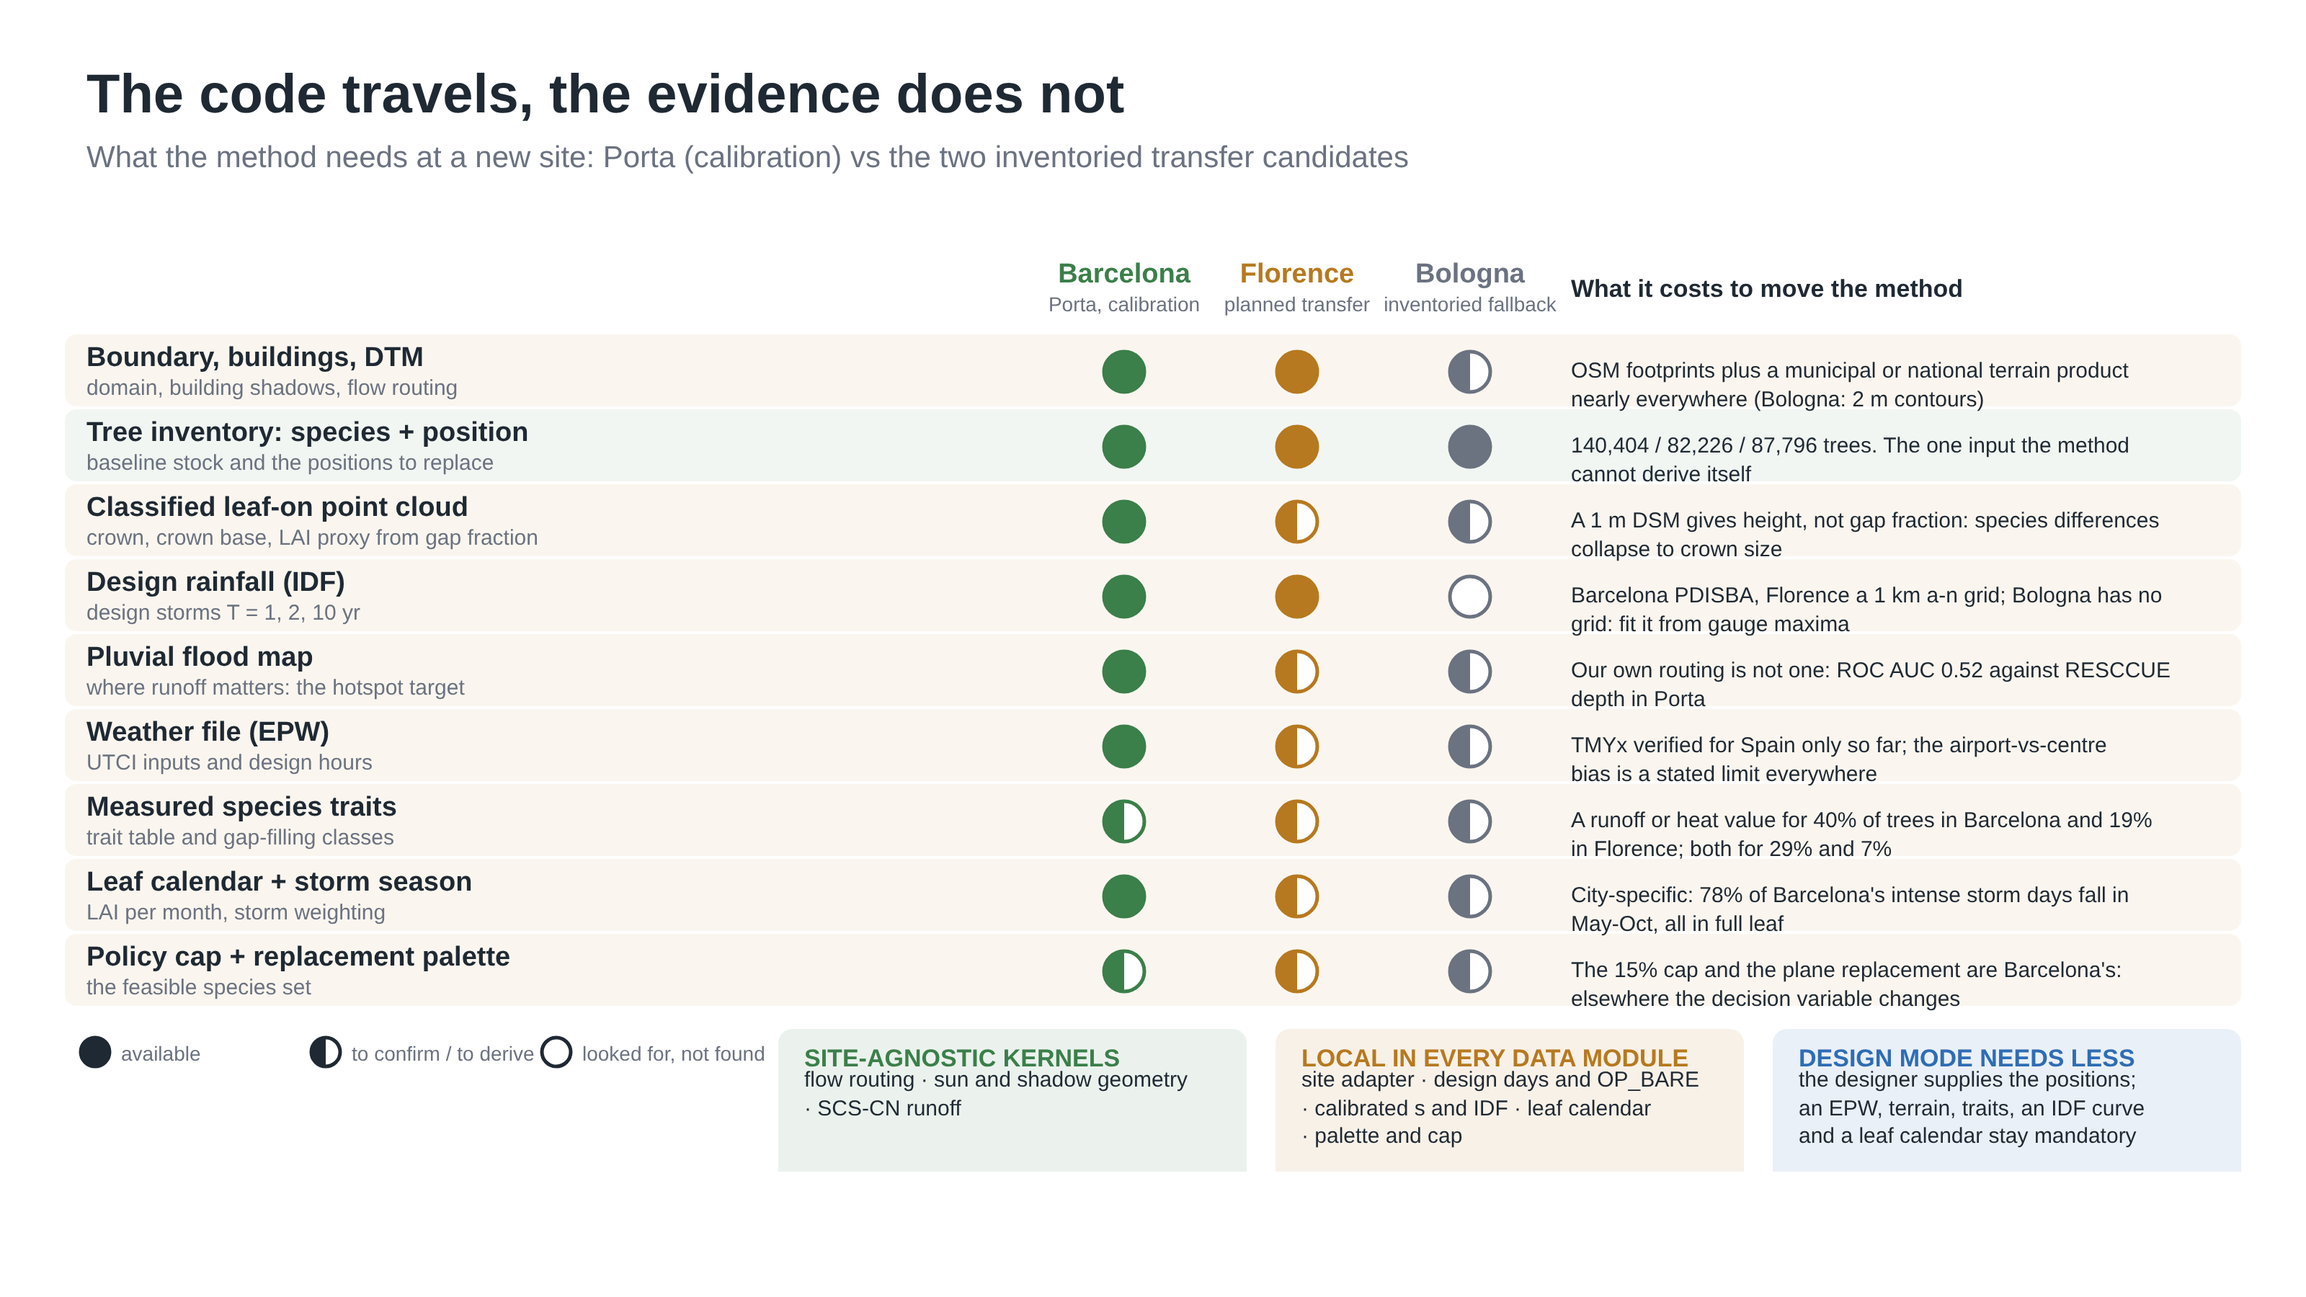
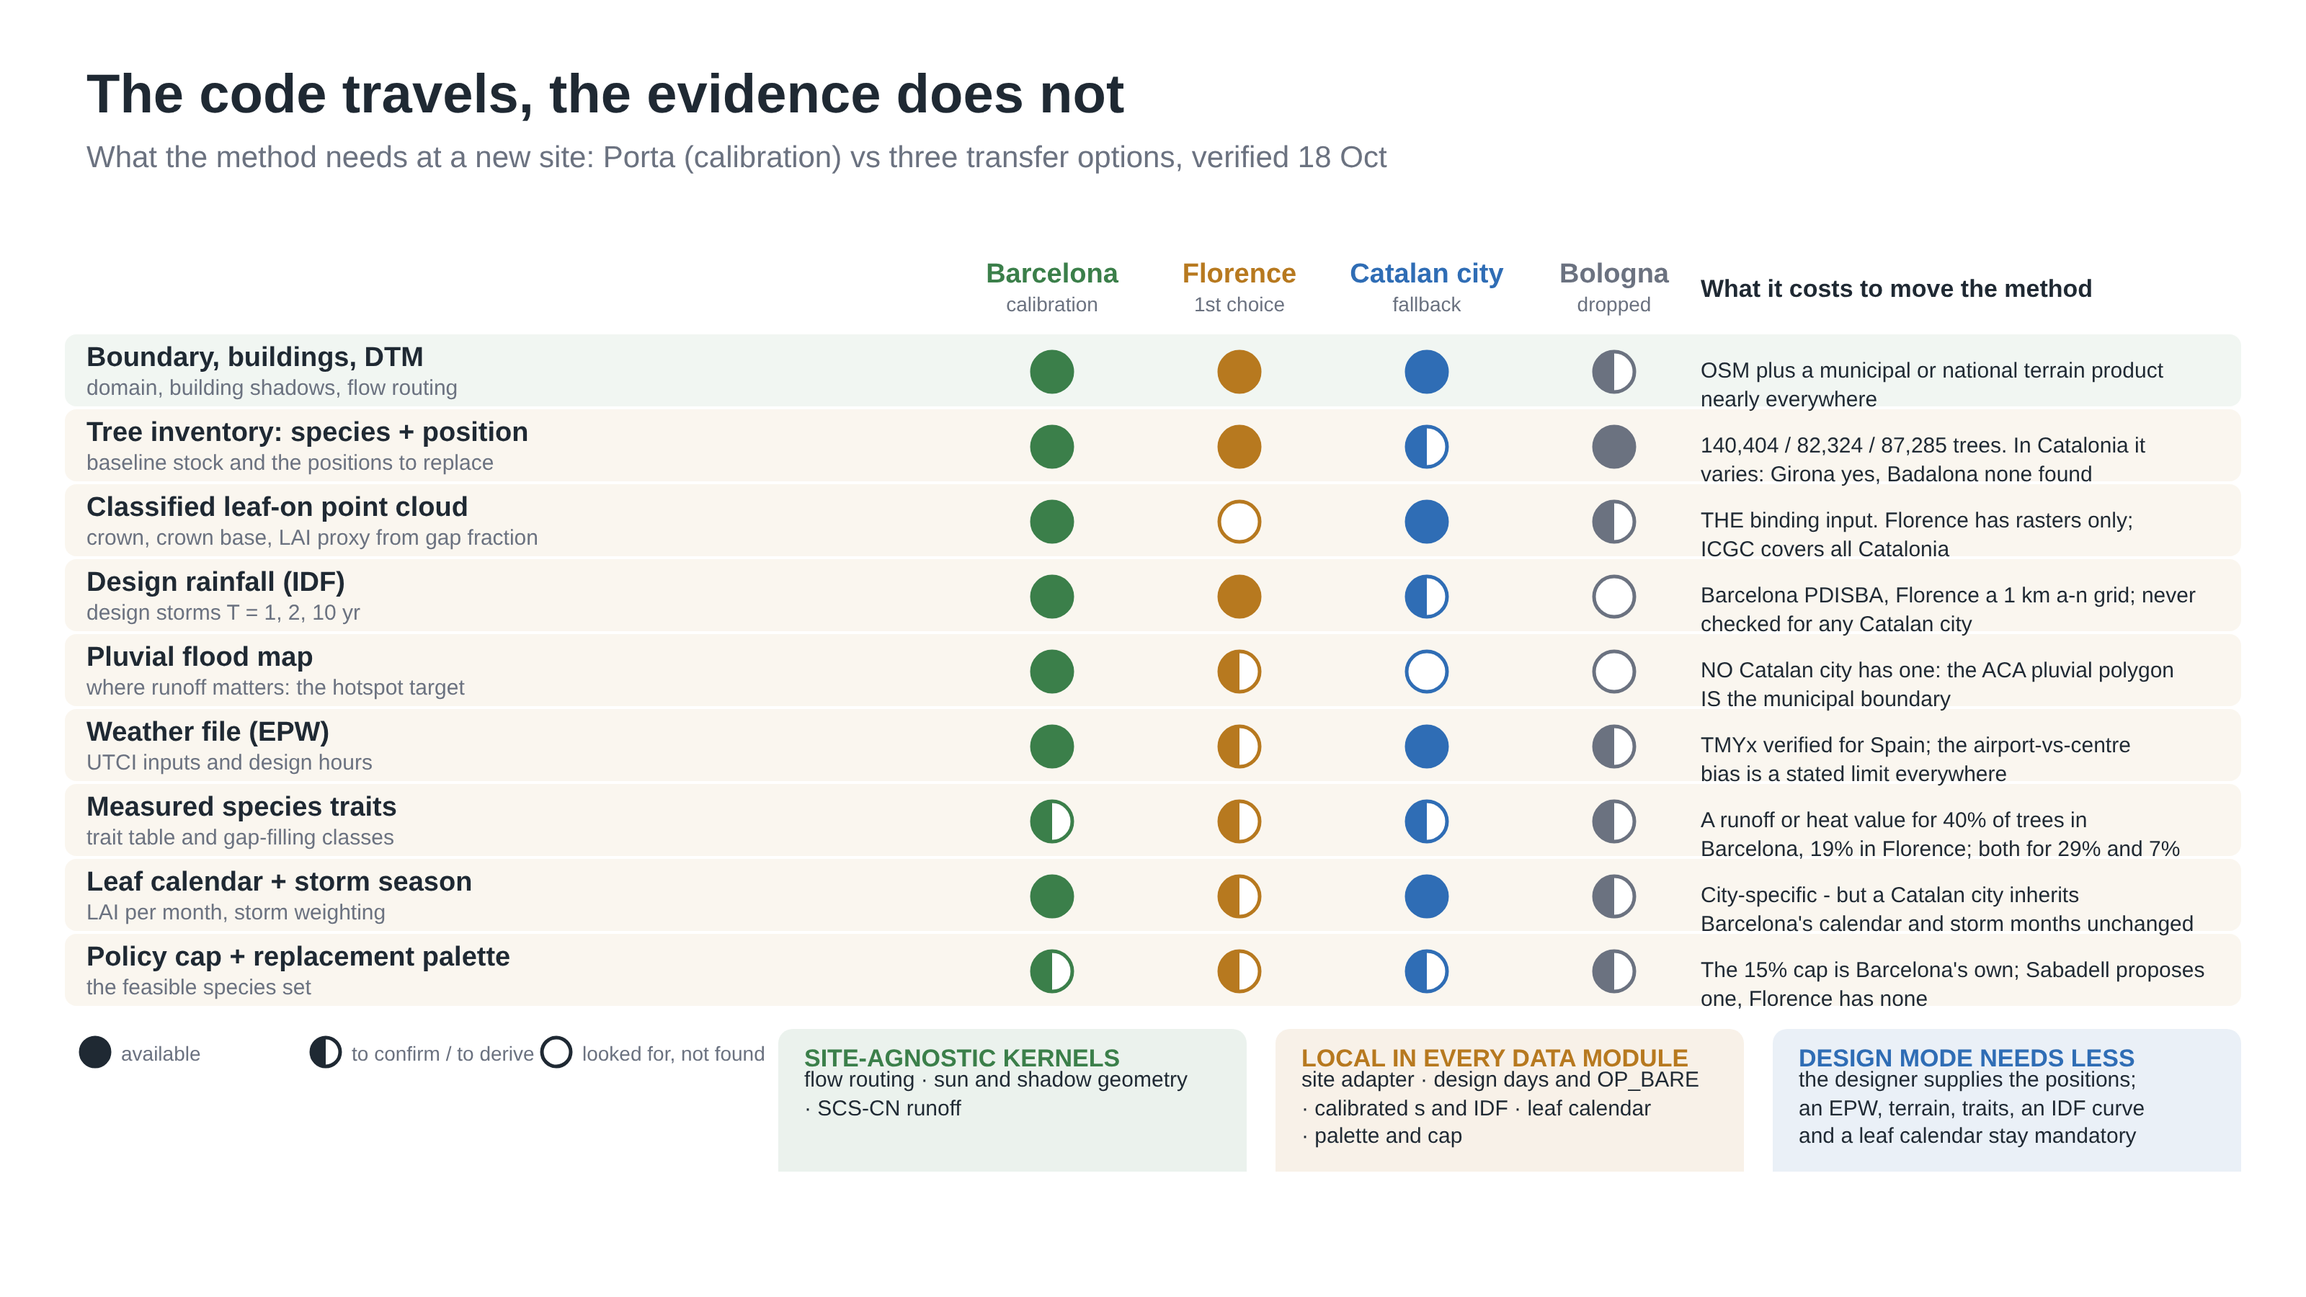
Slide 10: a fourth column, and fix a factual error in the spoken line
Adding cities was the smaller half of this. The bigger one is that the three
existing columns had gone stale against everything verified on 18 Oct, and the
spoken line was wrong in a way the tutor could catch: it said Florence has
'the LiDAR', when what Florence publishes is rasters only and the point cloud
is request-only, and it said 'no confirmed pluvial map' when Pacetti's PFI has
since been found published and downloaded.

Figure, now four columns (Barcelona calibration / Florence 1st choice /
Catalan city fallback / Bologna dropped):
- Florence point cloud 0 (confirmed absent publicly), pluvial map 0.5
  (published but rank-only, CC BY-NC-ND).
- The Catalan column carries the screening's actual shape: point cloud 1 (ICGC
  covers all Catalonia), leaf calendar 1 (it inherits Barcelona's unchanged),
  pluvial map 0 (no Catalan city has one), inventory 0.5 (varies by city),
  IDF 0.5 (never checked for any Catalan city - shown as the hole it is).
- Bologna LAS 0.5 rather than absent: named in the metadata, not served.
- Tree counts refreshed to 82,324 and 87,285.

Script: the Catalonia finding replaces the species-overlap bullet, because
'no Catalan city has a pluvial depth map, Barcelona's is the only one' both
states the transfer cost and justifies the calibration site - a stronger line
for a 5-minute talk than a second overlap statistic. Paid for by trimming
slides 2, 3, 4, 6 and 9; back to 712 words, 5:05 at 140 wpm.
[…]

diff --git a/scripts/make_infographics.py b/scripts/make_infographics.py
@@ -390,29 +390,29 @@ def fig_tree_system():
 
 # ---- 8. Transferability: what a new site costs
 def fig_transfer():
-    cities = [("Barcelona", "Porta, calibration", TREE, 780), ("Florence", "planned transfer", WARN, 900),
-              ("Bologna", "inventoried fallback", MUTED, 1020)]
+    cities = [("Barcelona", "calibration", TREE, 730), ("Florence", "1st choice", WARN, 860),
+              ("Catalan city", "fallback", RAIN, 990), ("Bologna", "dropped", MUTED, 1120)]
     b = "".join(t(x, 196, name, 19, col, "bold", "middle") + t(x, 216, sub, 14, MUTED, anchor="middle")
                 for name, sub, col, x in cities)
-    b += t(1090, 206, "What it costs to move the method", 17, INK, "bold")
-    rows = [("Boundary, buildings, DTM", "domain, building shadows, flow routing", [1, 1, .5],
-             "OSM footprints plus a municipal or national terrain product nearly everywhere (Bologna: 2 m contours)"),
-            ("Tree inventory: species + position", "baseline stock and the positions to replace", [1, 1, 1],
-             "140,404 / 82,226 / 87,796 trees. The one input the method cannot derive itself"),
-            ("Classified leaf-on point cloud", "crown, crown base, LAI proxy from gap fraction", [1, .5, .5],
-             "A 1 m DSM gives height, not gap fraction: species differences collapse to crown size"),
-            ("Design rainfall (IDF)", "design storms T = 1, 2, 10 yr", [1, 1, 0],
-             "Barcelona PDISBA, Florence a 1 km a-n grid; Bologna has no grid: fit it from gauge maxima"),
-            ("Pluvial flood map", "where runoff matters: the hotspot target", [1, .5, .5],
-             "Our own routing is not one: ROC AUC 0.52 against RESCCUE depth in Porta"),
-            ("Weather file (EPW)", "UTCI inputs and design hours", [1, .5, .5],
-             "TMYx verified for Spain only so far; the airport-vs-centre bias is a stated limit everywhere"),
-            ("Measured species traits", "trait table and gap-filling classes", [.5, .5, .5],
-             "A runoff or heat value for 40% of trees in Barcelona and 19% in Florence; both for 29% and 7%"),
-            ("Leaf calendar + storm season", "LAI per month, storm weighting", [1, .5, .5],
-             "City-specific: 78% of Barcelona's intense storm days fall in May-Oct, all in full leaf"),
-            ("Policy cap + replacement palette", "the feasible species set", [.5, .5, .5],
-             "The 15% cap and the plane replacement are Barcelona's: elsewhere the decision variable changes")]
+    b += t(1180, 206, "What it costs to move the method", 17, INK, "bold")
+    rows = [("Boundary, buildings, DTM", "domain, building shadows, flow routing", [1, 1, 1, .5],
+             "OSM plus a municipal or national terrain product nearly everywhere"),
+            ("Tree inventory: species + position", "baseline stock and the positions to replace", [1, 1, .5, 1],
+             "140,404 / 82,324 / 87,285 trees. In Catalonia it varies: Girona yes, Badalona none found"),
+            ("Classified leaf-on point cloud", "crown, crown base, LAI proxy from gap fraction", [1, 0, 1, .5],
+             "THE binding input. Florence has rasters only; ICGC covers all Catalonia"),
+            ("Design rainfall (IDF)", "design storms T = 1, 2, 10 yr", [1, 1, .5, 0],
+             "Barcelona PDISBA, Florence a 1 km a-n grid; never checked for any Catalan city"),
+            ("Pluvial flood map", "where runoff matters: the hotspot target", [1, .5, 0, 0],
+             "NO Catalan city has one: the ACA pluvial polygon IS the municipal boundary"),
+            ("Weather file (EPW)", "UTCI inputs and design hours", [1, .5, 1, .5],
+             "TMYx verified for Spain; the airport-vs-centre bias is a stated limit everywhere"),
+            ("Measured species traits", "trait table and gap-filling classes", [.5, .5, .5, .5],
+             "A runoff or heat value for 40% of trees in Barcelona, 19% in Florence; both for 29% and 7%"),
+            ("Leaf calendar + storm season", "LAI per month, storm weighting", [1, .5, 1, .5],
+             "City-specific - but a Catalan city inherits Barcelona's calendar and storm months unchanged"),
+            ("Policy cap + replacement palette", "the feasible species set", [.5, .5, .5, .5],
+             "The 15% cap is Barcelona's own; Sabadell proposes one, Florence has none")]
     y = 238
     for name, sub, v, cost in rows:
         hard = v[1] < 1 or v[2] < 1
@@ -420,7 +420,7 @@ def fig_transfer():
         b += t(60, y + 16, name, 19, INK, "bold") + t(60, y + 36, sub, 15, MUTED)
         for (_, _, col, x), val in zip(cities, v):
             b += ball(x, y + 20, val, col, 14)
-        p, _ = para(1090, y + 24, cost, 460, 15, fill=INK)
+        p, _ = para(1180, y + 24, cost, 370, 15, fill=INK)
         b += p
         y += 52
     for i, (val, lab) in enumerate(((1, "available"), (0.5, "to confirm / to derive"), (0, "looked for, not found"))):
@@ -434,10 +434,11 @@ def fig_transfer():
         b += rect(x, y + 8, w, 112, col, rx=10, op=0.1) + t(x + 18, y + 34, head, 17, col, "bold") + p
         x += w + 20
     save("10_transferability", "The code travels, the evidence does not",
-         "What the method needs at a new site: Porta (calibration) vs the two inventoried transfer candidates", b,
+         "What the method needs at a new site: Porta (calibration) vs three transfer options, verified 18 Oct", b,
          "data_inventory_barcelona.md A1, A3, A7, B1-B2, C4, D1-D2, G; data_inventory.md B1, B3, B5-B7, F1, F3, F5-F7; "
          "topic_decision.md 6.1 (trait coverage); methodology.md 4 validation (iii) (routing vs RESCCUE depth); "
-         "transfer_species_overlap.csv (63.5% of Florence's top-30 trees, 43.5% on samples of >=5 Porta trees); Esbri et al. 2026 (storm months); notes/transferability.md.")
+         "transfer_species_overlap.csv; catalan_transfer_city.md (ACA 3rd-cycle Annex 8 Taula 1; ICGC per-point GPS "
+         "dates, sampled clips); Esbri et al. 2026 (storm months); phenology_palette.csv; notes/transferability.md.")
 
 if __name__ == "__main__":
     OUT.mkdir(parents=True, exist_ok=True)

diff --git a/slides/outline_20oct.md b/slides/outline_20oct.md
@@ -20,16 +20,16 @@
 - Tree plan: no species above 15%; plane trees are ~29% of street trees
 
 **Visual:** two icons (rain / sun) over one street section.
-**Say:** "Two hazards hit the same streets. Barcelona's sealed surface grew from 45 to 72 percent between 1956 and 2009. About three storms a year exceed 60 millimetres per hour in their first twenty minutes, more than the sewer takes. In summer, the city carries one of Europe's highest heat-island mortality burdens. The tree master plan caps every species at 15 percent. Plane trees are about 29 percent of street trees, so many will be replaced, and that choice affects both hazards."
+**Say:** "Two hazards hit the same streets. Barcelona's sealed surface grew from 45 to 72 percent between 1956 and 2009. About three storms a year exceed 60 millimetres per hour in their first twenty minutes, more than the sewer takes. In summer, the city carries one of Europe's highest heat-island mortality burdens. The tree master plan caps every species at 15 percent, and plane trees are about 29 percent of street trees, so many will be replaced."
 
 ### 3. Why Porta [1:25]
 **On slide:** First of 73 neighbourhoods at every threshold · flood #13 · surface heat #11 (+1.36 °C) · heat vulnerability #12 · 832 plane trees · the six named replacement species, plus *Styphnolobium*, already grow there.
 **Visual:** `notes/figures/porta_profile.png` (or `bcn_site_screening.png`).
-**Say:** "To test this I needed a neighbourhood with both hazards and many plane trees. I screened all 73 with open data: to qualify, one had to be above the city's 60th percentile for flood hazard, surface heat and plane density at the same time. Porta, in Nou Barris, comes first at every threshold. It has 832 plane trees, and the six named replacement species already grow there, plus a seventh from the press. Sant Antoni floods more, but its heat is average, so it becomes my contrast site."
+**Say:** "To test this I needed a neighbourhood with both hazards and many plane trees. I screened all 73 with open data: to qualify, one had to be above the city's 60th percentile for flood hazard, surface heat and plane density at the same time. Porta, in Nou Barris, comes first at every threshold. It has 832 plane trees, and the six named replacement species already grow there, plus a seventh from the press. Sant Antoni floods more but its heat is average: it becomes my contrast site."
 
 ### 4. Literature, runoff side [2:00]
 **Visual:** `slides/fig/02_runoff_evidence.png`, with `01_lit_map.png` small in a corner (or as a backup slide).
-**Say:** "The literature review covers 81 sources. On the runoff side, two findings matter. First, species differ. In field studies a crown intercepts roughly 10 to 70 percent of rainfall, and the main driver is leaf area. Second, the benefit fades as storms grow. A paired-catchment study measured a 3.5 to 4 percent cut in runoff volume from street trees, with no effect on peak flow. So trees are a tool for frequent storms, not for extreme events."
+**Say:** "The literature review covers 81 sources. On runoff, two findings matter. Species differ: in field studies a crown intercepts roughly 10 to 70 percent of rainfall, and the main driver is leaf area. Second, the benefit fades as storms grow. A paired-catchment study measured a 3.5 to 4 percent cut in runoff volume from street trees, with no effect on peak flow. So trees are a tool for frequent storms, not for extreme events."
 
 ### 5. Literature: same tree, two jobs [2:25]
 **Visual:** `slides/fig/03_heat_runoff_traits.png`
@@ -37,7 +37,7 @@
 
 ### 6. The gap [3:00]
 **Visual:** `slides/fig/04_gap_matrix.png` (main) and `05_palette_data_gap.png` (click-in, or next to it).
-**Say:** "Here is the gap. The closest precedents either assess heat and runoff for fixed scenarios without species traits, or optimise species and positions for heat only. SylvCiT, the most advanced trait-based recommender, has its runoff module disabled. There is also a data gap. For the six replacement species we can measure crowns on site from LiDAR. But rain storage is measured for only one of them, and none has a measured cooling value."
+**Say:** "Here is the gap. The closest precedents either assess heat and runoff for fixed scenarios without species traits, or optimise species and positions for heat only. SylvCiT, the most advanced trait-based recommender, has its runoff module disabled. For the six replacement species we can measure crowns on site from LiDAR. But rain storage is measured for only one of them, and none has a measured cooling value."
 
 ### 7. Research question and hypotheses [3:30]
 **On slide:**
@@ -55,18 +55,19 @@
 ### 9. First result and next steps [4:40]
 **Visual:** `notes/figures/runoff_results_v1.png`
 **On slide:** Street trees today: −1.9% runoff in a 2-yr storm (−2.9% on streets and squares); field benchmark 4% · young replacements lose >⅓ of the benefit · benefit shrinks with storm size (H3).
-**Say:** "The runoff module already runs. I calibrated canopy storage on open field data from Freiburg. Today's street trees cut runoff in a 2-year storm by 1.9 percent, or 2.9 percent on streets and squares. That is the same order as the 3.5 to 4 percent measured in the field. Replacing the planes with young trees loses more than a third of that benefit, and the benefit shrinks for bigger storms, as H3 predicts. The heat module is next."
+**Say:** "The runoff module already runs. I calibrated canopy storage on open field data from Freiburg. Today's street trees cut runoff in a 2-year storm by 1.9 percent, or 2.9 percent on streets and squares — the same order as the 3.5 to 4 percent measured in the field. Replacing the planes with young trees loses more than a third of that benefit, and the benefit shrinks for bigger storms, as H3 predicts. The heat module is next."
 
 ### 10. Transferability: the code travels, the evidence does not [5:05]
 **Visual:** `slides/fig/10_transferability.png`
 **On slide:**
 - Site-agnostic core: the routing, shade-geometry and SCS-CN **kernels** carry no local constant; a new site = one data adapter. (`heat.py` and `runoff.py` still hold local design days, the calibrated *s* and the IDF path.)
 - The transfer bill is **data**: inventory · leaf-on point cloud · IDF · flood map · traits · phenology · policy.
-- Florence: inventory (82,226 trees), 1 m LiDAR **DTM/DSM rasters** and a 1 km IDF grid available; measured traits for **19% of trees vs 40%** here; no confirmed pluvial map — the hotspot map must be requested from its authors.
-- **64% of Florence's top-30 trees are species already measured in Porta** — but only **44%** on samples of 5 Porta trees or more (*Cupressus* rests on 2, *Pinus pinea* on 1). The gap is the Mediterranean evergreens (*Quercus ilex* 8.5%, *Olea* 6.2%).
+- Florence (1st choice): inventory (82,324 trees), a 1 km IDF grid and **a published pluvial index** (Pacetti's PFI, downloaded) — but **only 1 m DTM/DSM rasters**: the point cloud is request-only. Measured traits for **19% of trees vs 40%** here.
+- A **Catalan city** (fallback) inherits Porta's ≥8 pts/m² leaf-on ICGC cloud *and* its leaf calendar and storm months — Badalona's tiles are the **same mission day** as Porta's. But **no Catalan city has a pluvial hazard map**: the ACA's pluvial polygon *is* the municipal boundary.
+- So Barcelona's RESCCUE depth model is the **only city-wide pluvial depth model found in Catalonia** — which is why Porta was the right place to calibrate.
 - Two hard dependencies: a **classified leaf-on point cloud** (the LAI proxy) and a **city flood map** (our own routing is not one: AUC 0.52).
 
-**Say:** "Last, transferability. The core is site-agnostic: the geometry and physics kernels carry no local constant. Florence has the inventory, the LiDAR and the rainfall grid, but half the measured traits and no confirmed pluvial map. And the fifteen percent cap is Barcelona's own. So the method transfers; the data has to be rebuilt each time. Two things would help me: the city's flood depth maps, and access to Infrared City."
+**Say:** "Last, transferability. The core is site-agnostic: the geometry and physics kernels carry no local constant. What does not travel is one input — a leaf-on laser scan dense enough to see inside a crown. Florence has the trees and the rainfall, but only rasters: the point cloud I have to ask for. And in all of Catalonia, no city has a pluvial depth map. Barcelona's is the only one, which is why I calibrated here. Two things would help me: the city's flood depth maps, and access to Infrared City."
 
 ---
 
